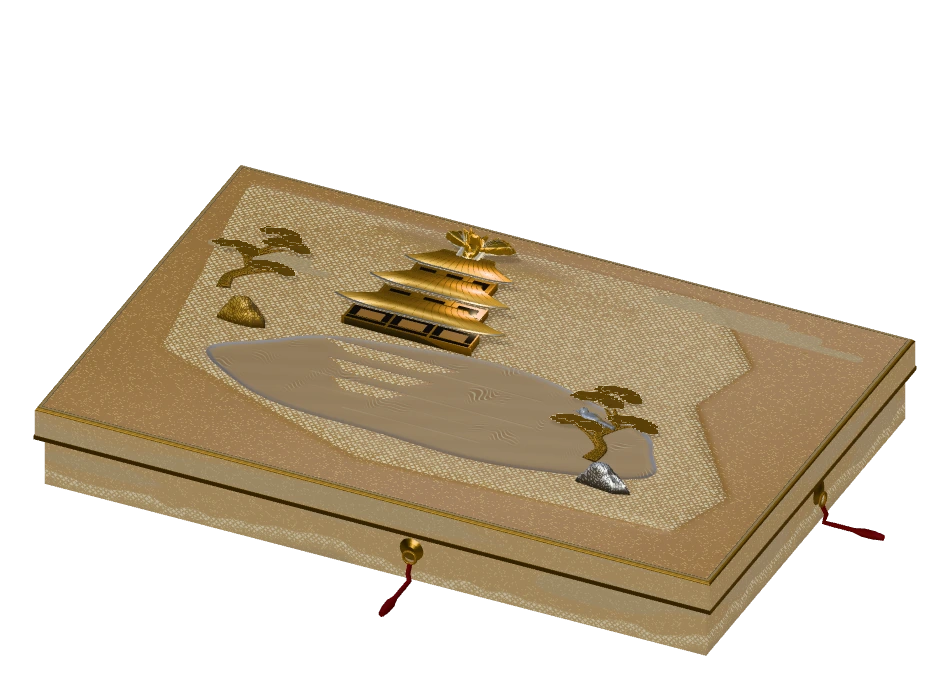
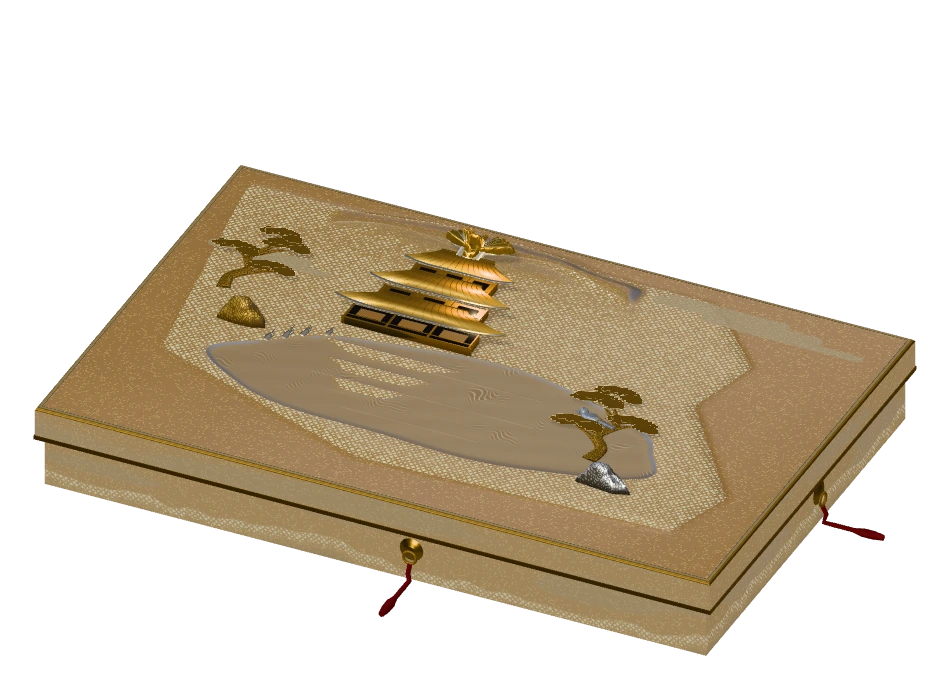
feat(plate): attached small scenery for five wards (R5a, checkpoint before review edits)

diff --git a/src/studies/toji/plate/vocab.js b/src/studies/toji/plate/vocab.js
@@ -479,3 +479,144 @@ export {stampedPine, stampedPine as pine, stampedPine as branchPine,
   stampedMaple, stampedMaple as maple, stampedMaple as branchMaple,
   stampedGinkgo as ginkgo, stampedGinkgo as branchGinkgo,
   stampedCourtTree as courtTree, stampedCourtTree as branchCourtTree} from './trees.js';
+
+// ---- Attached scenes (R5a). Each hangs on a named part (`on`), is flat inlay in the ground, and sits at a place written
+// out in its ward's own file. `rand` only jitters a stroke, with fixed seeds.
+// Their reach is .5, never 0: bake.js repaints every part with reach > 0 over the margins, in order, so a reach-0 part
+// under one of the big ground parts (a garden floor, a hill) would be painted out of the material map.
+const need = (fn, id, on) => { if (typeof on !== 'string' || !on) throw new Error(`${fn}(${id}): "on" must name the part it hangs on`); };
+/** A band along a polyline, w0 wide at its first point and w1 at its last (closed outline). */
+function ribbon(pts, w0, w1) {
+  const left = [], right = [], n = pts.length - 1;
+  pts.forEach(([x, z], i) => {
+    const a = pts[Math.max(0, i - 1)], b = pts[Math.min(n, i + 1)], l = Math.hypot(b[0] - a[0], b[1] - a[1]) || 1, w = lerp(w0, w1, i / n) / 2;
+    left.push([x - (b[1] - a[1]) / l * w, z + (b[0] - a[0]) / l * w]); right.push([x + (b[1] - a[1]) / l * w, z - (b[0] - a[0]) / l * w]);
+  });
+  return [...left, ...right.reverse()];
+}
+/** Where a hill's crest runs at x: the same curve hill() draws, so a small figure can stand on a ridge. */
+export function hillCrest(x0, x1, crown, foot, seed, {humps = 2} = {}) {
+  const ph = rand(seed)() * 6.283;
+  return x => { const t = (x - x0) / (x1 - x0); return foot - (foot - crown) * Math.pow(Math.sin(Math.PI * t), .6) * (.78 + .22 * Math.sin(t * Math.PI * humps * 2 + ph)); };
+}
+/** A point on one bank of a stream() (same Catmull-Rom as stream) with its tangent: [x, z, tx, tz]. side is -1 or 1. */
+export function streamEdge(points, widths, t, side) {
+  const at = u => {
+    const f = u * (points.length - 1), i = Math.min(points.length - 2, Math.floor(f)), v = f - i;
+    const p0 = points[Math.max(0, i - 1)], p1 = points[i], p2 = points[i + 1], p3 = points[Math.min(points.length - 1, i + 2)];
+    const c = k => .5 * (2 * p1[k] + (p2[k] - p0[k]) * v + (2 * p0[k] - 5 * p1[k] + 4 * p2[k] - p3[k]) * v * v + (3 * p1[k] - p0[k] - 3 * p2[k] + p3[k]) * v * v * v);
+    return [c(0), c(1), lerp(widths[i], widths[i + 1], v)];
+  };
+  const a = at(Math.max(0, t - .01)), b = at(Math.min(1, t + .01)), q = at(t), l = Math.hypot(b[0] - a[0], b[1] - a[1]) || 1;
+  const tx = (b[0] - a[0]) / l, tz = (b[1] - a[1]) / l;
+  return [q[0] - tz * q[2] * side, q[1] + tx * q[2] * side, tx, tz];
+}
+/** A distant ridge behind a nearer bank (`on`): the swell of hill(), drawn before the bank so the bank covers its foot. */
+export function distantHill(id, x0, x1, crown, foot, seed, {on, amp = .3, mat = MAT.nashijiLight, humps = 1} = {}) {
+  need('distantHill', id, on);
+  return hill(id, x0, x1, crown, foot, seed, {amp, mat, humps}).map(p => ({...p, on}));
+}
+const five = (cx, cz, r, turn) => Array.from({length: 5}, (_, i) => blob(cx + Math.cos(turn + i * 1.2566) * r * .95, cz + Math.sin(turn + i * 1.2566) * r * .95, r * .8, r * .8, 1, 0, 9));
+/**
+ * Tufts of grass or reed at the places given: [x, z, height, blades, lean?, flower?]. Blades fan from one root and curve
+ * with the lean; a tuft with a flower carries one five-petalled silver blossom on its middle blade.
+ * Gold mat = grass, silver mat = reed (narrow spread).  Each blade is a thin leaf inlaid flat, not a raised stalk.
+ */
+export function grassTufts(id, spots, {on, mat = MAT.gold, seed = 1, w = 2.6, spread = .42} = {}) {
+  need('grassTufts', id, on);
+  if (!spots.length) throw new Error(`grassTufts(${id}): spots must not be empty`);
+  const r = rand(seed), grass = part(id, KIND.still, 0, mat, spots[0].slice(0, 2), {reach: .5, on}), bloom = [];
+  for (const [x, z, h, n, lean = 0, flower = false] of spots) {
+    for (let k = 0; k < n; k++) {
+      const u = n === 1 ? 0 : k / (n - 1) * 2 - 1, hh = h * (.62 + .38 * (1 - Math.abs(u)) + (r() - .5) * .16);
+      const tip = [x + u * h * spread + lean * h * (.6 + .4 * Math.abs(u)), z - hh], mid = [x + u * h * .14 + lean * h * .15, z - hh * .55];
+      const left = quad([x + u * 1.4 - w / 2, z], [mid[0] - w * .46, mid[1]], tip, 8), right = quad(tip, [mid[0] + w * .46, mid[1]], [x + u * 1.4 + w / 2, z], 8);
+      grass.fills.push({d: [...left, ...right.slice(1)], soft: 0, crisp: 1});
+      if (flower && k === Math.floor(n / 2)) bloom.push(tip);
+    }
+  }
+  if (!bloom.length) return [grass];
+  const flowers = part(`${id}-flower`, KIND.still, 0, MAT.hyomonSilver, bloom[0], {reach: .5, on});
+  for (const [x, z] of bloom) for (const d of five(x, z - 1.2, 2.6, -1.57)) flowers.fills.push({d, soft: 0, crisp: 1});
+  return [grass, flowers];
+}
+/**
+ * A fall of water as broken streaks of cut silver: each line is [x0, z0, x1, z1] from lip to pool, widening as it falls and
+ * parted into three runs by gaps. Hangs on the stream (`on`) whose head it feeds.
+ */
+export function cascade(id, lines, {on, w = 3} = {}) {
+  need('cascade', id, on);
+  const p = part(id, KIND.still, 0, MAT.hyomonSilver, lines[0].slice(0, 2), {reach: .5, on});
+  for (const [x0, z0, x1, z1] of lines) for (const [a, b] of [[0, .56], [.66, 1]]) {
+    const at = t => [lerp(x0, x1, t) + Math.sin(t * 5) * .5, lerp(z0, z1, t)];
+    p.fills.push({d: ribbon([at(a), at((a + b) / 2), at(b)], w * (.7 + .5 * a), w * (.7 + .5 * b)), soft: 0, crisp: 1});
+  }
+  return [p];
+}
+/**
+ * A pagoda at a great distance, a flat silhouette of pale gold standing on a ridge (`on`): five stacked eaves and a mast.
+ * h is its whole height; zBase is the ridge line under it.
+ */
+export function farPagoda(id, x, zBase, h, {on} = {}) {
+  need('farPagoda', id, on);
+  const p = part(id, KIND.still, 0, MAT.kirikane, [x, zBase], {reach: .5, on}), tier = h * .17;
+  for (let i = 0; i < 5; i++) {
+    const w = h * (.21 - i * .02) * .9, z1 = zBase - i * tier, z0 = z1 - tier * .78;
+    p.fills.push({d: [[x - w * 1.15, z1], [x + w * 1.15, z1], [x + w * .62, z0], [x - w * .62, z0]], soft: 0, crisp: 1});
+    p.fills.push({d: [[x - w * .5, z0], [x + w * .5, z0], [x + w * .5, z0 - tier * .22], [x - w * .5, z0 - tier * .22]], soft: 0, crisp: 1});
+  }
+  p.fills.push({d: [[x - h * .02, zBase - 5 * tier], [x + h * .02, zBase - 5 * tier], [x, zBase - h]], soft: 0, crisp: 1});
+  return [p];
+}
+/**
+ * The character 大 laid out in small squares of cut gold on a slope (`on`), as the bonfire on the mountain is: a bar and
+ * two legs. cx, cz is the middle of the bar; size is the bar's full width.
+ */
+export function daimonji(id, cx, cz, size, {on, tile = 3.8} = {}) {
+  need('daimonji', id, on);
+  const p = part(id, KIND.still, 0, MAT.kirikane, [cx, cz], {reach: .5, on}), h = size * .5, s = tile / 2;
+  const put = (a, b) => {
+    const n = Math.max(2, Math.round(Math.hypot(b[0] - a[0], b[1] - a[1]) / (tile * 1.5)));
+    for (let i = 0; i <= n; i++) { const x = lerp(a[0], b[0], i / n), z = lerp(a[1], b[1], i / n); p.fills.push({d: [[x - s, z - s], [x + s, z - s], [x + s, z + s], [x - s, z + s]], soft: 0, crisp: 1}); }
+  };
+  put([cx - h, cz], [cx + h, cz]);                    // the bar
+  put([cx, cz - h * .55], [cx - h * .95, cz + h]);    // the left-falling leg, begun above the bar
+  put([cx, cz + h * .05], [cx + h * .95, cz + h]);    // the right-falling leg
+  return [p];
+}
+/** A narrow dark band (the unlit brown of MAT.lamp) along an edge (`on`) with a wavering width: the moss line where sand meets ground. */
+export function mossLine(id, pts, {on, w = 3.6, seed = 1} = {}) {
+  need('mossLine', id, on);
+  const r = rand(seed), dense = [];
+  for (let i = 0; i < pts.length - 1; i++) for (let k = 0; k < 4; k++) dense.push([lerp(pts[i][0], pts[i + 1][0], k / 4), lerp(pts[i][1], pts[i + 1][1], k / 4)]);
+  dense.push(pts.at(-1));
+  const a = [], b = [], n = dense.length - 1;
+  dense.forEach(([x, z], i) => {
+    const u = dense[Math.max(0, i - 1)], v = dense[Math.min(n, i + 1)], l = Math.hypot(v[0] - u[0], v[1] - u[1]) || 1, q = w * (.65 + r() * .7) / 2;
+    a.push([x - (v[1] - u[1]) / l * q, z + (v[0] - u[0]) / l * q]); b.push([x + (v[1] - u[1]) / l * q, z - (v[0] - u[0]) / l * q]);
+  });
+  const p = part(id, KIND.still, 0, MAT.lamp, pts[0], {reach: .5, on});
+  p.fills.push({d: [...a, ...b.reverse()], soft: 0, crisp: .5});
+  return [p];
+}
+/**
+ * A plum beside a roof (`on`): a bare branch of dark line work rising from its foot, and on it blossoms of five
+ * silver petals, each with a small round heart (a gold chip until a coral material exists). x, z is the foot; s scales it
+ * (1 is about 26 tall); lean -1 mirrors it.
+ */
+export function silverPlum(id, x, z, s, {on, lean = 1} = {}) {
+  need('silverPlum', id, on);
+  const P = (dx, dz) => [x + dx * lean * s, z - dz * s];
+  const limb = (pts, w0, w1) => ribbon(pts.map(([a, b]) => P(a, b)), w0 * s, w1 * s);
+  const wood = part(id, KIND.still, 0, MAT.lamp, [x, z], {reach: .5, on}), petals = part(`${id}-blossom`, KIND.still, 0, MAT.hyomonSilver, [x, z], {reach: .5, on});
+  const heart = part(`${id}-heart`, KIND.still, 0, MAT.kirikane, [x, z], {reach: .5, on});
+  wood.fills.push({d: limb([[0, 0], [-1.5, 6], [1, 12], [4.5, 17], [8, 21]], 2.4, 1), soft: 0, crisp: .8},
+    {d: limb([[1, 12], [-3, 17], [-8, 20]], 1.5, .8), soft: 0, crisp: .8},
+    {d: limb([[4, 17], [9, 15], [14, 16]], 1.2, .7), soft: 0, crisp: .8});
+  for (const [dx, dz, r, turn] of [[8, 22, 2.2, .3], [-8, 21, 2.1, 1], [14, 17, 2, .6], [4.5, 18.5, 1.9, 1.4], [-4, 17.5, 1.8, .1], [10.5, 12.5, 1.7, .9]]) {
+    const [cx, cz] = P(dx, dz);
+    for (const d of five(cx, cz, r * s, turn)) petals.fills.push({d, soft: 0, crisp: 1});
+    heart.fills.push({d: blob(cx, cz, r * s * .42, r * s * .42, 2, 0, 10), soft: 0, crisp: 1});
+  }
+  return [wood, petals, heart];
+}

diff --git a/src/studies/toji/plate/sakyo.js b/src/studies/toji/plate/sakyo.js
@@ -1,13 +1,28 @@
 // Two textures face each other: dark timber over a small pond, silver raked sand with a single level-topped cone.
 // The pavilion stays at the far left, the cone at the near right; an open lower-left wedge separates them.
-import {MAT, gardenGround, hill, pond, sandGarden, sandCone, moonBowl, storey, roof, hall, branchPine as pine, bird, rock, suyari} from './vocab.js';
+import {MAT, blob, gardenGround, hill, pond, sandGarden, sandCone, moonBowl, storey, roof, hall, branchPine as pine, bird, rock, suyari, grassTufts, mossLine, daimonji} from './vocab.js';
+
+// The outline pond() draws for 'kinkyo' (same arguments): the grass is set on it.
+const POND = [-182, 36, 112, 67, 5];
+const shore = blob(...POND, .055, 80);
+/** A tuft just outside the pond's shore at index i, leaning away from the water. */
+function bank(i, h, n, flower = false) {
+  const [x, z] = shore[i], dx = x - POND[0], dz = z - POND[1], l = Math.hypot(dx, dz);
+  return [x + dx / l * 2.2, z + dz / l * 2.2, h, n, Math.sign(dx) * .22, flower];
+}
 
 export function sakyo() {
   return [
     ...gardenGround('garden-floor', [[-343, -210], [141, -210], [330, -176], [341, -34], [263, 176], [5, 178], [-72, 55], [-338, 80]]),
     ...hill('higashiyama', -345, 85, -216, -169, 4, {amp: .35}),
+    // Daimonji: the character 大 in cut gold on the mountain's face, small beside the pavilion.
+    ...daimonji('daimonji', -16, -190, 34, {on: 'higashiyama', tile: 4.2}),
     ...pond('kinkyo', -182, 36, 112, 67, 5),
     ...sandGarden('ginshadan', 14, 249, 0, 102),
+    // Where sand meets ground: a dark moss line along the sand's west and south edge, as far as the cone's foot.
+    ...mossLine('ginshadan-moss', [[24, 2], [19, 50], [13, 104], [60, 105.5], [105, 104.5], [140, 105]], {on: 'ginshadan'}),
+    // Grass at the pond's edge: a few tufts of gold line work on the west, south and east banks, none on the pavilion's side.
+    ...grassTufts('kinkyo-grass', [bank(3, 11, 4), bank(15, 12, 4), bank(25, 11, 4), bank(28, 12, 4, true), bank(40, 12, 4), bank(47, 11, 4)], {on: 'kinkyo', seed: 3}),
     ...sandCone('kogetsudai', 190, 160, 50, 62),
     ...moonBowl('moon', 190, 98, 'kogetsudai'),
     ...suyari('mist-west', -336, -213, -37, 12, 6),

diff --git a/src/studies/toji/plate/minami.js b/src/studies/toji/plate/minami.js
@@ -1,6 +1,14 @@
 // 南区・東寺. A composition, not a survey: the pagoda on its bank, the hall half lost in mist,
 // a stream between two banks, pines in the foreground. A third of the ground stays empty nashiji.
-import {MAT, hill, stream, suyari, rock, pagoda, hall, stampedPine as pine, bird, shell} from './vocab.js';
+import {MAT, hill, stream, streamEdge, suyari, rock, pagoda, hall, stampedPine as pine, bird, shell, grassTufts, silverPlum} from './vocab.js';
+
+// The stream's own points and widths, kept here so its banks can be found again for the grass.
+const STREAM = [[[-8, -150], [22, -70], [-30, 20], [14, 110], [-26, 232]], [7, 11, 17, 25, 36]];
+/** A tuft on the bank of the stream at t (0 head, 1 foot), side -1 east or 1 west, set 2.5 units out from the water. */
+function bankTuft(t, side, h, n, flower = false) {
+  const [x, z] = streamEdge(...STREAM, t, side);
+  return [x - side * 2.5, z, h, n, -side * .2, flower];
+}
 
 export function minami() {
   return [
@@ -8,8 +16,12 @@ export function minami() {
     ...hill('bank-far', -360, -70, -168, -112, 11, {amp: .34, mat: MAT.nashijiLight, humps: 3}),
     ...hill('bank-left', -372, -52, 92, 214, 23, {amp: .8}),
     ...hill('bank-right', 44, 372, 118, 214, 31, {amp: .7, mat: MAT.gyobu, humps: 1}),
-    ...stream('stream', [[-8, -150], [22, -70], [-30, 20], [14, 110], [-26, 232]], [7, 11, 17, 25, 36]),
+    ...stream('stream', ...STREAM),
     ...shell('shell', [[14, -44, 4.2, 2], [-22, 34, 5, 5], [6, 96, 4.4, 8], [-12, 168, 5.6, 3]]),
+    // Grass on both banks: gold line work, two tufts carrying a small silver flower.
+    ...grassTufts('stream-grass', [bankTuft(.38, -1, 12, 4), bankTuft(.58, -1, 11, 4, true), bankTuft(.78, -1, 12, 4), bankTuft(.5, 1, 12, 4), bankTuft(.68, 1, 11, 4, true)], {on: 'stream', seed: 4}),
+    // A silver plum by the hall's west roof corner.
+    ...silverPlum('plum', -222, 4, 1.4, {on: 'kondo'}),
     // Slot 1: mist and stones.
     ...suyari('mist-hall', -360, -18, -34, 17, 5),
     ...suyari('mist-sky', 196, 372, -186, 15, 9),

diff --git a/src/studies/toji/plate/kita.js b/src/studies/toji/plate/kita.js
@@ -1,6 +1,15 @@
 // A horizontal mirror: three gold storeys rise from the far bank, their broken image lies in still water.
 // The island pine balances the pavilion; the entire lower-left quarter stays bare lacquer and nashiji.
-import {MAT, gardenGround, hill, pond, phoenix, storey, roof, branchPine as pine, bird, rock, suyari} from './vocab.js';
+import {MAT, blob, gardenGround, hill, distantHill, pond, phoenix, storey, roof, branchPine as pine, bird, rock, suyari, grassTufts} from './vocab.js';
+
+// The outline pond() draws for 'kyoko' (same arguments): the reeds are set on its north-west bank.
+const POND = [-5, 68, 244, 82, 3];
+const shore = blob(...POND, .055, 80);
+/** A reed clump on the shore at index i, rooted a little inland, leaning out over the water. */
+function reed(i, h, n) {
+  const [x, z] = shore[i];
+  return [x, z - 1.2, h, n, .16];
+}
 
 export function kita() {
   const pavilion = [];
@@ -13,8 +22,12 @@ export function kita() {
   }
   return [
     ...gardenGround('shore-ground', [[-345, -210], [165, -210], [244, -122], [222, -35], [320, 100], [295, 173], [-43, 185], [-155, 145], [-300, 88]]),
+    // Kinugasa-yama: a low round ridge far behind the bank, pale as a sedge hat. The bank is drawn next and hides its foot.
+    ...distantHill('kinugasa', -250, 90, -228, -200, 21, {on: 'far-bank', amp: .9, mat: MAT.gyobu}),
     ...hill('far-bank', -270, 115, -213, -164, 12, {amp: .3, mat: MAT.mura}),
     ...pond('kyoko', -5, 68, 244, 82, 3, {reflection: {x: -85, z: 9, width: 78, height: 90}}),
+    // Reeds of silver line work on the north-west bank, from the pavilion's west foot toward the shore stone.
+    ...grassTufts('kyoko-reeds', [reed(45, 21, 5), reed(47, 25, 5), reed(49, 21, 5), reed(51, 18, 4)], {on: 'kyoko', mat: MAT.silver, seed: 5, w: 2.4, spread: .12}),
     ...suyari('mist-west', -342, -202, -102, 13, 2),
     ...suyari('mist-east', 105, 342, -195, 14, 7),
     ...rock('shore-stone', -246, 18, 29, 20, 5),

diff --git a/src/studies/toji/plate/higashiyama.js b/src/studies/toji/plate/higashiyama.js
@@ -1,6 +1,6 @@
 // 東山区・清水. One mass held in the air: the hall and its stage on a lattice over the drop, Otowa behind it,
 // maples in the valley. The left third is the drop itself: empty ground, a far ridge and a thread of water.
-import {MAT, hill, stream, suyari, rock, hall, bird, shell, kakezukuri, stampedMaple as maple, fallenLeaves} from './vocab.js';
+import {MAT, hill, hillCrest, stream, suyari, rock, hall, bird, shell, kakezukuri, stampedMaple as maple, fallenLeaves, cascade, farPagoda} from './vocab.js';
 
 export function higashiyama() {
   return [
@@ -10,6 +10,10 @@ export function higashiyama() {
     ...hill('ridge-west', -372, -176, -150, -108, 35, {amp: .32, mat: MAT.nashijiLight, humps: 3}),
     ...stream('otowa-water', [[-80, 138], [-150, 156], [-222, 176], [-284, 204], [-330, 238]], [5, 8, 12, 17, 24]),
     ...shell('shell', [[-118, 146, 4, 2], [-196, 166, 4.8, 5], [-262, 192, 5.4, 8]]),
+    // Otowa: three threads of silver fall from under the stage's west foot into the head of the stream. The name Kiyomizu.
+    ...cascade('otowa-fall', [[-46, 102, -70, 136], [-56, 102, -76, 137], [-66, 104, -82, 138]], {on: 'otowa-water'}),
+    // Yasaka's pagoda on the west ridge, very small and pale: its height is under a quarter of the hall's.
+    ...farPagoda('yasaka-tower', -262, hillCrest(-372, -176, -150, -108, 35, {humps: 3})(-262) + 1, 20, {on: 'ridge-west'}),
     // Fallen leaves of cut gold and silver drift from the maples down the valley toward the water.
     ...fallenLeaves('momiji', -60, 192, 240, 34, 30, 7),
     // Slot 1: mist and stones.

diff --git a/src/studies/toji/plate/fushimi.js b/src/studies/toji/plate/fushimi.js
@@ -1,7 +1,7 @@
 // 伏見区・稲荷. A diagonal, not a centre: the great torii in the near corner, the two-storey gate behind it, and
 // a line of gates climbing the mountain to the far corner. The fox keeps the other near corner.
 // The sky above the gate and the ground between the fox and the climb stay empty nashiji.
-import {MAT, hill, suyari, rock, branchPine as pine, bird, shell, torii, romon, fox, pawPrints, steppingStones} from './vocab.js';
+import {MAT, hill, suyari, rock, branchPine as pine, bird, shell, torii, romon, fox, pawPrints, steppingStones, lantern} from './vocab.js';
 
 /** Five gates up the slope, each smaller than the one before and clear of its neighbours. */
 function climb() {
@@ -29,6 +29,9 @@ export function fushimi() {
     ...rock('rock-b', 10, 174, 24, 16, 9, {mat: MAT.kirigin}),
     // Slot 2: the gates, the fox and the trunks. These stand up from the lid.
     ...torii('torii', -232, 204, 1.22, {cap: true}),
+    // A stone lantern at the great torii's west foot, outside the post: the way in. Only this side has room: between the
+    // torii (to x -161) and the pine's crown (from x -135) there are 26 units, and a lantern at this scale is 56 wide.
+    ...lantern('torii-lantern', -334, 212, .8).map(p => ({...p, on: 'torii'})),
     ...romon('romon', -250, 40, 62),
     ...climb(),
     ...fox('kitsune', 176, 200, -1, 1.5),
